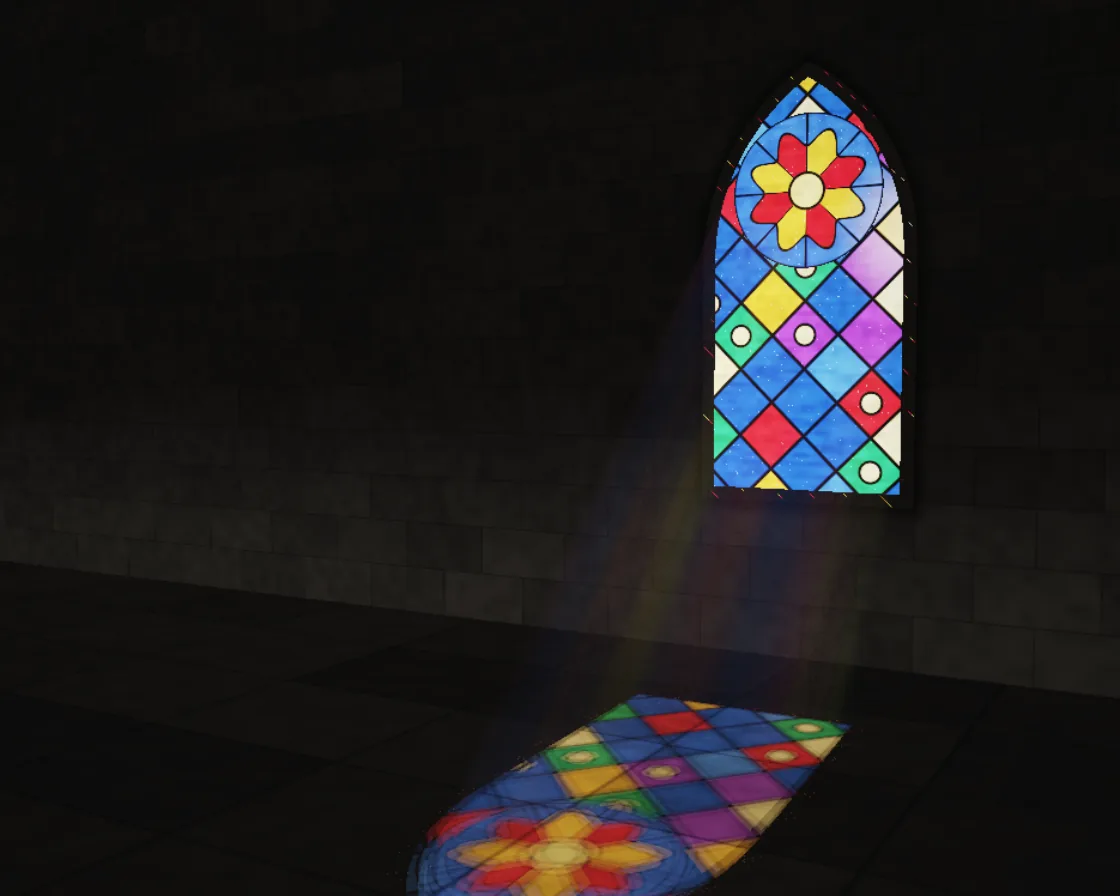
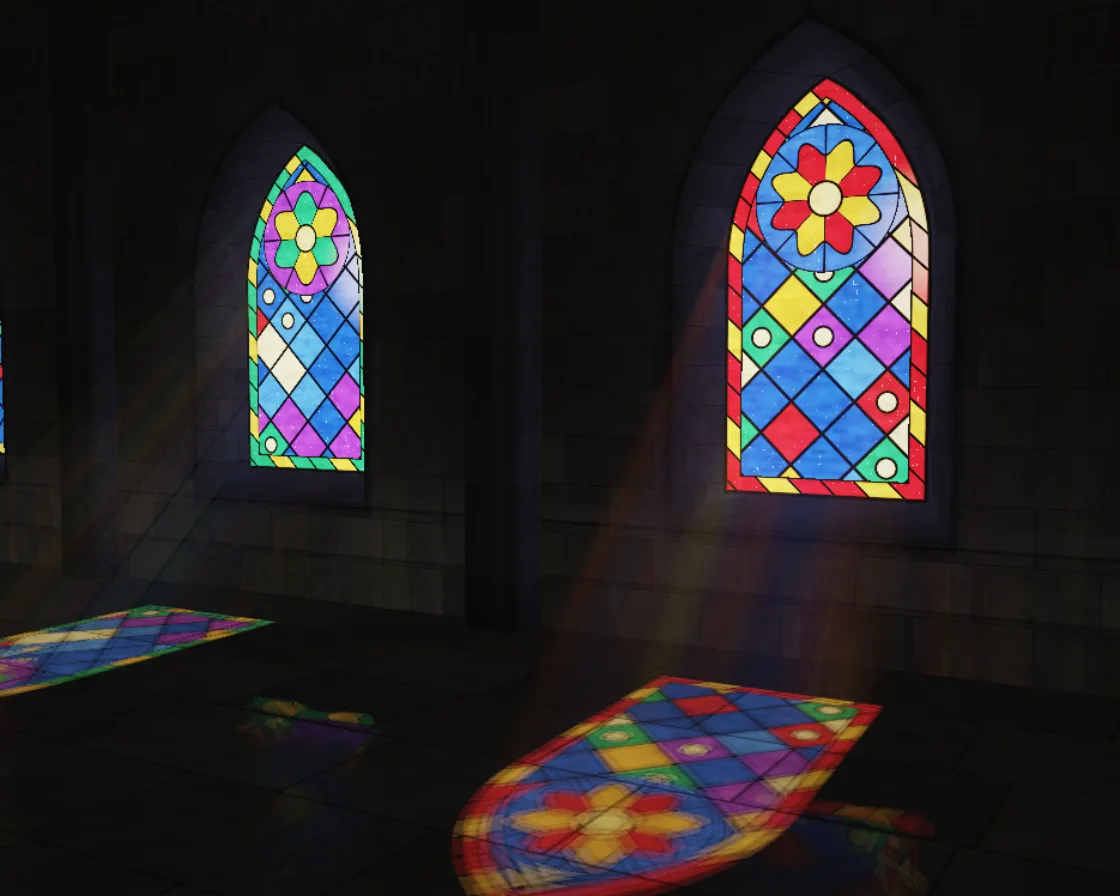
Stained glass: a nave of bays, deep reveals, richer stone and a polished floor
Windows repeat per bay (own rose and border colours) with clustered piers between; the glass sits
DEP back behind a splayed reveal (bisection finds the jamb); ashlar gets per-block tints, tooling,
stains, a string course and plinth, and a blurred bounce from the pools; flagstones come in two
widths with worn polish holding a soft 3-tap reflection of the glass. Fixed the border band's
inverted separator lead (it drew lead over the whole band, leaving coloured ticks). 60 fps at 1280x760.

diff --git a/anims/shaders/stained-glass.js b/anims/shaders/stained-glass.js
@@ -1,9 +1,12 @@
-// Stained glass: a tall pointed window in a dark stone nave. The sun stands behind it and slowly moves; its light
-// comes through the glass as coloured shafts in the dusty air and lands on the flagstones as pools of colour that
-// drift across the floor, brightening and dimming as clouds pass. Move across it to move the sun.
-// Everything is one fragment shader. The window is a function: given a point on the wall it returns the glass colour
-// there and whether lead is in the way (a ruby border, a rose medallion in the arch, diamond quarries below, each pane
-// with its own streaks and seeds). The floor asks it once per pixel: follow the sunlight back from the floor to the
+// Stained glass: a row of tall pointed windows in a dark stone nave, one to each bay, with clustered piers between
+// them. The glass sits deep in a thick wall behind a splayed stone reveal; the walls are coursed ashlar with a moulded
+// string course under the sills, a plinth, and damp stains below each window. The sun stands behind the windows and
+// slowly moves; its light comes through as coloured shafts in the dusty air and lands on the flagstones as pools of
+// colour that drift across the floor, brightening and dimming as clouds pass; the pools glow faintly back up the wall,
+// and the worn floor's polish holds a soft reflection of the glass. Move across it to move the sun.
+// Everything is one fragment shader. The window is a function: given a point on the glass it returns the glass colour
+// there and whether lead is in the way (a ruby and gold border, a rose medallion in the arch, diamond quarries below,
+// each pane with its own streaks and seeds; the bays repeat it with their own colours). The floor asks it once per pixel: follow the sunlight back from the floor to the
 // wall and look up the glass where it lands, from a few points on the sun's disc for a soft edge. The air asks it at
 // every step of a march from the eye: a step inside a beam adds that pane's colour, scaled by the dust there.
 const PARAMS = { dust: 1, sun: 1, speed: 1 };
@@ -24,41 +27,53 @@ export default function (stage) {
   #define Y0 .9
   #define YS 2.3
   #define SPAN 1.24
+  #define BAY 4.
+  #define DEP .34
+  #define SPL .2
+  #define PR .27
   float h1(vec2 p) { return fract(sin(dot(p, vec2(127.1, 311.7))) * 43758.5453); }
   float n2(vec2 p) { vec2 i = floor(p), f = fract(p); f = f * f * (3. - 2. * f); return mix(mix(h1(i), h1(i + vec2(1, 0)), f.x), mix(h1(i + vec2(0, 1)), h1(i + vec2(1, 1)), f.x), f.y); }
   float n3(vec3 p) { vec3 i = floor(p), f = fract(p); f = f * f * (3. - 2. * f); float a = h1(i.xy + i.z * 17.), b = h1(i.xy + vec2(1, 0) + i.z * 17.), c = h1(i.xy + vec2(0, 1) + i.z * 17.), d = h1(i.xy + vec2(1, 1) + i.z * 17.);
     float e = h1(i.xy + (i.z + 1.) * 17.), g = h1(i.xy + vec2(1, 0) + (i.z + 1.) * 17.), k = h1(i.xy + vec2(0, 1) + (i.z + 1.) * 17.), l = h1(i.xy + vec2(1, 1) + (i.z + 1.) * 17.);
     return mix(mix(mix(a, b, f.x), mix(c, d, f.x), f.y), mix(mix(e, g, f.x), mix(k, l, f.x), f.y), f.z); }
-  // the window's outline as a signed distance: a rectangle below the springing line, an equilateral arch above
+  // the nave repeats in bays along the wall: a point's bay, and its x within that bay. Bays -2 to 0 have windows
+  float bay(inout vec2 p) { float id = floor((p.x + BAY * .5) / BAY); p.x -= id * BAY; return id; }
+  bool hasWin(float id) { return id > -2.5 && id < .5; }
+  // a window's outline as a signed distance (bay coordinates): a rectangle below the springing line, an equilateral arch above
   float win(vec2 p) {
     if (p.y < YS) return max(abs(p.x) - HW, Y0 - p.y);
     return max(length(p - vec2(HW, YS)) - SPAN, length(p - vec2(-HW, YS)) - SPAN);
   }
+  // the opening at a wall point: distance to the outline, or a large number in a bay without a window
+  float hole(vec2 p) { float id = bay(p); return hasWin(id) ? win(p) : 9.; }
   // pot-metal colours: mostly blues, with ruby, amber, emerald, violet and a pale gold
   vec3 pal(float h) {
     return h < .34 ? vec3(.05, .16, .62) : h < .5 ? vec3(.12, .32, .85) : h < .62 ? vec3(.75, .05, .07) : h < .74 ? vec3(.95, .55, .08)
          : h < .84 ? vec3(.06, .5, .22) : h < .93 ? vec3(.38, .1, .6) : vec3(.98, .85, .45);
   }
-  // the glass at a point on the wall: rgb transmittance, and a = 1 where light gets through (0 on lead and stone)
+  // the glass at a point on the glass plane: rgb transmittance, and a = 1 where light gets through (0 on lead and stone).
+  // Each bay's window has its own quarries; the near one has an eight-petal rose in the arch, the next a six-lobed one
   vec4 glass(vec2 p) {
+    float id = bay(p);
+    if (!hasWin(id)) return vec4(0.);
     float d = win(p);
     if (d > 0.) return vec4(0.);
     float lead = 0.; vec3 c; vec2 cell;
-    vec2 med = vec2(0., YS + .36); float rm = length(p - med);
-    if (d > -.075) {                                                 // the border: ruby and gold pieces in a band
+    vec2 med = vec2(0., YS + .36); float rm = length(p - med), k = id == 0. ? 8. : 6.;
+    if (d > -.115) {                                                 // the border: ruby and gold pieces in a band
       float s = floor((p.y + atan(p.x, 2.) * 2.) / .2);
-      c = mod(s, 3.) < 1. ? vec3(.95, .6, .1) : vec3(.72, .04, .06); cell = vec2(s, 7.);
-      lead = max(smoothstep(.016, .006, abs(d + .075)), smoothstep(.012, .004, abs(fract((p.y + atan(p.x, 2.) * 2.) / .2) - .5) - .488));
+      c = mod(s, 3.) < 1. ? vec3(.95, .6, .1) : id == 0. ? vec3(.72, .04, .06) : vec3(.06, .45, .2); cell = vec2(s, 7. + id);
+      lead = max(smoothstep(.016, .006, abs(d + .115)), smoothstep(.43, .47, abs(fract((p.y + atan(p.x, 2.) * 2.) / .2) - .5)));   // lead between the pieces
     } else if (rm < .43) {                                           // the rose in the arch
-      float a = atan(p.y - med.y, p.x - med.x), sec = floor((a + 3.14159) / (6.28318 / 8.)), r = rm + .05 * cos(a * 8.);
-      if (rm < .1) { c = vec3(.98, .8, .3); cell = vec2(0, 1); }
-      else if (r < .3) { c = mod(sec, 2.) < 1. ? vec3(.72, .04, .06) : vec3(.95, .55, .08); cell = vec2(sec, 2.); }
-      else { c = vec3(.08, .2, .75); cell = vec2(sec, 3.); }
-      float fa = fract((a + 3.14159) / (6.28318 / 8.));
+      float a = atan(p.y - med.y, p.x - med.x), sec = floor((a + 3.14159) / (6.28318 / k)), r = rm + .05 * cos(a * k);
+      if (rm < .1) { c = vec3(.98, .8, .3); cell = vec2(0, 1. + id); }
+      else if (r < .3) { c = mod(sec, 2.) < 1. ? (id == 0. ? vec3(.72, .04, .06) : vec3(.06, .5, .22)) : vec3(.95, .55, .08); cell = vec2(sec, 2. + id); }
+      else { c = id == 0. ? vec3(.08, .2, .75) : vec3(.38, .1, .6); cell = vec2(sec, 3. + id); }
+      float fa = fract((a + 3.14159) / (6.28318 / k));
       lead = max(max(smoothstep(.014, .004, abs(rm - .1)), smoothstep(.014, .004, abs(r - .3))), max(smoothstep(.014, .004, abs(rm - .43)), smoothstep(.04, .01, min(fa, 1. - fa)) * step(.1, rm)));
     } else {                                                         // diamond quarries with the odd roundel
       vec2 q = mat2(.7071, -.7071, .7071, .7071) * (p - vec2(0., Y0)) / .27;
-      cell = floor(q); vec2 f = fract(q);
+      cell = floor(q) + id * 31.; vec2 f = fract(q);
       float h = h1(cell);
       c = pal(h);
       lead = smoothstep(.06, .02, min(min(f.x, 1. - f.x), min(f.y, 1. - f.y)));
@@ -69,47 +84,106 @@ export default function (stage) {
     float streak = n2(vec2(p.x * 6. + h1(cell) * 9., p.y * 40.)) * .55 + n2(p * 23.) * .45;
     float seed = smoothstep(.92, .96, n2(p * 90. + cell * 3.1));
     c *= .65 + .6 * streak; c += seed * .25;
-    lead = max(lead, smoothstep(.014, .004, -d));                    // the outer lead against the stone
+    lead = max(lead, smoothstep(.032, .018, -d));                    // the outer lead and the stone rebate it sits in
     return vec4(c, 1. - lead);
   }
   vec3 sunDir() { return normalize(vec3(-.22 + SX, -.86, 1.)); }      // the way the light travels (in through the window, down)
-  // light reaching a point in the room through the window: follow the ray back to the wall (z = 0)
+  // light reaching a point in the room through a window: follow the ray back to the glass, set DEP into the wall.
+  // The opening at the wall face is splayed wider than the glass, so it never clips the light
   vec3 through(vec3 p, vec3 L) {
     if (p.z <= 0.) return vec3(0.);
-    vec3 q = p - L * (p.z / L.z);
+    vec3 q = p - L * ((p.z + DEP) / L.z);
     vec4 g = glass(q.xy); return g.rgb * g.a;
+  }
+  // ashlar: courses of blocks, each its own tint, chisel-dressed, with recessed mortar and stains under the sills
+  vec3 ashlar(vec2 p, out float joint) {
+    vec2 b = p * vec2(1.6, 3.2); b.x += floor(b.y) * .5; vec2 f = fract(b), id = floor(b);
+    float e = min(min(f.x, 1. - f.x) / 1.6, min(f.y, 1. - f.y) / 3.2);
+    joint = .45 + .55 * smoothstep(.0, .022, e * 3.) + .12 * smoothstep(.02, .0, abs(f.y - .97));   // a lit lip under each course
+    vec3 tint = mix(vec3(.36, .32, .27), vec3(.42, .37, .3), h1(id * 1.7)) * (.72 + .36 * h1(id * 3.7));
+    tint *= .82 + .3 * n2(p * 14.) + .08 * n2(vec2(p.x * 60., p.y * 9.));   // grain and tooling marks
+    vec2 lp = p; float bid = bay(lp);
+    tint *= 1. - .35 * n2(vec2(lp.x * 7., p.y * .5 + bid * 3.)) * smoothstep(HW + .4, 0., abs(lp.x)) * smoothstep(Y0 + .05, .2, p.y);
+    return tint;
   }
   void main() {
     vec2 uv = (gl_FragCoord.xy - .5 * RES) / RES.y;
     vec3 rd = normalize(FWD * 1.32 + RGT * uv.x + UPV * uv.y), ro = EYE;
     vec3 L = sunDir(), sunC = vec3(1., .9, .72) * SUN * (.55 + .45 * CLOUD);
-    // what the eye hits: the floor (y = 0) or the wall (z = 0)
-    float tf = rd.y < 0. ? -ro.y / rd.y : 1e9, tw = rd.z < 0. ? -ro.z / rd.z : 1e9, t = min(tf, tw);
+    float glow = 2.4 * SUN * (.55 + .45 * CLOUD);
+    vec3 avgGlass = vec3(.22, .24, .55);                             // the windows' mean colour, for light they throw about
+    // what the eye hits: the floor (y = 0), the wall face (z = 0), or a pier between bays (a half-round shaft)
+    float tf = rd.y < 0. ? -ro.y / rd.y : 1e9, tw = rd.z < 0. ? -ro.z / rd.z : 1e9, tp = 1e9; float pcx = 0.;
+    for (int k = 0; k < 3; k++) {
+      float cx = BAY * .5 - float(k) * BAY; vec2 oc = ro.xz - vec2(cx, 0.);
+      float A = dot(rd.xz, rd.xz), B = dot(oc, rd.xz), C = dot(oc, oc) - PR * PR, D = B * B - A * C;
+      if (D > 0.) { float th = (-B - sqrt(D)) / A; vec3 hp = ro + rd * th; if (th > 0. && th < tp && hp.z > 0. && hp.y > 0.) { tp = th; pcx = cx; } }
+    }
+    float t = min(min(tf, tw), tp);
     vec3 p = ro + rd * t, col;
-    if (tw < tf) {
-      vec4 g = glass(p.xy);
-      if (g.a > 0. || win(p.xy) < 0.) {                              // the window itself, lit from behind
-        float glow = 2.4 * SUN * (.55 + .45 * CLOUD);
-        col = pow(g.rgb, vec3(1.35)) * g.a * glow + (1. - g.a) * vec3(.008, .007, .006);   // deep, saturated pot-metal
-        col += vec3(1., .85, .6) * g.a * smoothstep(.5, .0, length(p.xy - vec2(SX * 2.2, 2.4))) * glow * .35;   // the sun behind the glass
-      } else {                                                       // ashlar: courses of blocks
-        vec2 b = p.xy * vec2(1.6, 3.2); b.x += floor(b.y) * .5; vec2 f = fract(b);
-        float joint = .55 + .45 * smoothstep(.0, .025, min(min(f.x, 1. - f.x) / 1.6, min(f.y, 1. - f.y) / 3.2) * 3.);
-        vec3 stone = vec3(.36, .32, .27) * (.7 + .4 * n2(floor(b) * 3.7)) * (.8 + .35 * n2(p.xy * 14.));
-        // a dim nave: only a little light, bounced up from the pool on the floor
-        col = stone * joint * (.02 + .045 * smoothstep(1.8, 0., p.y));
-        col *= 1. - .6 * smoothstep(.0, -.15, win(p.xy)) ;
-        col *= smoothstep(-.02, .1, win(p.xy)) * .8 + .2;            // the window reveal is in shadow
+    if (tp <= t) {                                                   // a pier: clustered shafts, lit by the windows beside it
+      vec3 n = normalize(vec3(p.x - pcx, 0., p.z)); float ang = atan(n.z, n.x);
+      n = normalize(n + vec3(-sin(ang), 0., cos(ang)) * .25 * sin(ang * 9.));
+      vec2 tb = vec2(ang * 2., p.y * 3.); float j; vec3 stone = vec3(.38, .34, .29) * (.8 + .3 * n2(tb * 6. + 3.)) * (.85 + .2 * h1(floor(vec2(0., p.y * 3.2))));
+      float side = clamp(dot(n, normalize(vec3(sign(-pcx) * 1., .3, -.4))), 0., 1.);   // the window's glow wraps round toward it
+      vec3 beam = through(p, L) * sunC * max(dot(n, -L), 0.) * 1.5;
+      col = stone * (.012 + avgGlass * glow * .05 * side * smoothstep(4.5, 1., p.y) + beam);
+      col *= .55 + .45 * smoothstep(.0, .5, p.y);                    // darker at its foot
+    } else if (tw < tf) {
+      vec2 lp = p.xy; float id = bay(lp), dh = hasWin(id) ? win(lp) : 9.;
+      if (dh < SPL) {                                                // inside the splayed opening: the glass, or the stone reveal
+        float tg = (-DEP - ro.z) / rd.z; vec3 q = ro + rd * tg;
+        vec2 lq = q.xy; float idq = bay(lq);
+        if (idq == id && win(lq) < 0.) {
+          vec4 g = glass(q.xy);
+          col = pow(g.rgb, vec3(1.35)) * g.a * glow + (1. - g.a) * vec3(.008, .007, .006);   // deep, saturated pot-metal
+          col += vec3(1., .85, .6) * g.a * smoothstep(.5, .0, length(lq - vec2(SX * 2.2, 2.4))) * glow * .35;   // the sun behind the glass
+        } else {
+          // the reveal: find where the ray meets the splayed jamb, between the wall face and the glass
+          float a = tw, b = tg;
+          for (int i = 0; i < 7; i++) { float m = .5 * (a + b); vec3 s = ro + rd * m; vec2 ls = s.xy; bay(ls); if (win(ls) < SPL * (1. + s.z / DEP)) a = m; else b = m; }
+          vec3 s = ro + rd * a; float depth = -s.z / DEP;
+          float jt; vec3 stone = ashlar(s.xy * 1.3 + vec2(s.z * 3., 0.), jt);
+          col = stone * jt * (.015 + avgGlass * glow * .07 * (.3 + depth));   // lit by the glass it frames, more so near it
+        }
+      } else {
+        float jt; vec3 stone = ashlar(p.xy, jt);
+        // a moulded string course under the sills and a plinth at the foot
+        float sc = smoothstep(.0, .01, p.y - (Y0 - .2)) * smoothstep(.0, .01, (Y0 - .08) - p.y);
+        float plinth = smoothstep(.36, .34, p.y);
+        stone = mix(stone, vec3(.4, .36, .31) * (.85 + .2 * n2(p.xy * vec2(3., 30.))), sc);
+        stone *= 1. - .55 * smoothstep(.02, .0, abs(p.y - (Y0 - .205))) - .4 * smoothstep(.015, .0, abs(p.y - .345));
+        stone *= 1. - .25 * plinth;
+        // light bounced up from the pools on the floor in front, falling off with height, and a halo from each window
+        vec3 bounce = vec3(0.);
+        for (int i = 0; i < 4; i++) { float fi = float(i); bounce += through(vec3(p.x - .5 + (fi - 1.5) * .45, .01, 1.5 + mod(fi, 2.) * 1.1), L); }
+        bounce *= sunC * .25;
+        col = stone * jt * (.016 + .03 * smoothstep(1.8, 0., p.y) + bounce * .14 * exp(-p.y * 1.1) * max(-L.y, 0.));
+        col += stone * avgGlass * glow * .05 * exp(-max(dh, 0.) * 5.) * step(dh, 8.);
+        col *= smoothstep(-.02, .12, dh - SPL) * .7 + .3;           // the arris of the opening in shadow
       }
-    } else {                                                         // flagstones
-      vec2 b = p.xz * vec2(.9, 1.1); vec2 f = fract(b);
-      float joint = .5 + .5 * smoothstep(.0, .02, min(min(f.x, 1. - f.x), min(f.y, 1. - f.y)));
-      vec3 stone = vec3(.42, .38, .33) * (.7 + .4 * h1(floor(b))) * (.85 + .25 * n2(p.xz * 9.));
+    } else {                                                         // flagstones: courses of two widths, worn smooth
+      vec2 fp = p.xz; float row = floor(fp.y / .78); fp.x += h1(vec2(row, 3.)) * 3.; float w = mix(.72, 1.25, h1(vec2(row, 9.)));
+      vec2 b = vec2(fp.x / w, fp.y / .78); vec2 f = fract(b), fid = floor(b);
+      float jn = min(min(f.x, 1. - f.x) * w, min(f.y, 1. - f.y) * .78);
+      float joint = .4 + .6 * smoothstep(.0, .018, jn);
+      vec3 stone = mix(vec3(.42, .38, .33), vec3(.36, .35, .33), h1(fid + 4.)) * (.72 + .36 * h1(fid)) * (.85 + .25 * n2(p.xz * 9.));
+      float wear = smoothstep(.35, .75, n2(p.xz * .6 + 2.)) * smoothstep(.0, .05, jn);   // a polished path, not in the joints
       // the pool: the window's colours, from a few points on the sun's disc for a soft edge
       vec3 pool = vec3(0.);
       for (int i = 0; i < 5; i++) { float a = float(i) * 1.2566; vec3 Lj = normalize(L + vec3(cos(a), 0., sin(a)) * .012 * (i == 0 ? 0. : 1.)); pool += through(p, Lj); }
       pool *= .2;
       col = stone * joint * (.02 + pool * sunC * 1.7 * max(-L.y, 0.));
+      // the polish: a blurred reflection of the glowing windows, strongest at grazing angles
+      vec3 refl = vec3(0.); float fr = .04 + .96 * pow(1. - max(-rd.y, 0.), 5.);
+      for (int i = 0; i < 3; i++) {
+        vec3 rr = reflect(rd, vec3(0., 1., 0.)); rr.xz += (vec2(n2(p.xz * 4. + float(i) * 5.3), n2(p.xz * 4. + 9.1 + float(i) * 2.7)) - .5) * .09; rr = normalize(rr);
+        if (rr.z >= 0.) continue;
+        vec3 w0 = p + rr * (-p.z / rr.z), wg = p + rr * ((-DEP - p.z) / rr.z);
+        vec2 l0 = w0.xy; bay(l0);
+        if (win(l0) < SPL) { vec4 g = glass(wg.xy); refl += pow(g.rgb, vec3(1.35)) * g.a; }
+      }
+      col += refl / 3. * glow * fr * (.03 + .22 * wear) * joint;
     }
     // the air: march from the eye to the surface; dust in a beam scatters that pane's colour toward us
     vec3 fog = vec3(0.); float steps = 56., dt = min(t, 14.) / steps, j = h1(gl_FragCoord.xy + fract(T) * 13.);

diff --git a/anims/registry-more.js b/anims/registry-more.js
@@ -496,7 +496,7 @@ export const MORE = [
     params: { speed: P(0.25, 2, 0.05, 'Speed'), population: P(0.5, 2, 0.1, 'Population'), glow: P(0, 2, 0.1, 'Glow') } },
   { id: 'stained-glass', cat: 'shaders', title: 'Stained glass', kind: 'webgl', posterAt: 12000, pointer: true,
     trick: 'Trace light back to a glass function: coloured pools and dusty shafts',
-    notes: ['Sun pours through a leaded window into a dark nave: coloured shafts in the dusty air and pools on the flagstones that drift as it moves.', 'The window is a function that returns glass colour or lead; the floor and every step of a march through the air look it up along the sunlight. Move across to move the sun.'],
+    notes: ['Sun pours through a row of leaded windows set deep in a stone nave: coloured shafts in the dusty air, and pools on the polished flagstones that drift as it moves.', 'The window is a function that returns glass colour or lead; the floor and every step of a march through the air look it up along the sunlight. Move across to move the sun.'],
     params: { dust: P(0, 2, 0.05, 'Dust'), sun: P(0.3, 2, 0.05, 'Sun'), speed: P(0, 3, 0.1, 'Speed') } },
   { id: 'ocean', cat: 'fluid', title: 'Open ocean', kind: 'webgl', posterAt: 11000, pointer: true,
     trick: 'FFT ocean from a JONSWAP spectrum; unresolved slopes widen the glitter',

diff --git a/anims/i18n-fr.js b/anims/i18n-fr.js
@@ -42,10 +42,10 @@ export const FR = {
  },
  "stained-glass": {
   "title": "Vitrail",
-  "trick": "Remonter la lumière jusqu’à une fonction de verre : taches colorées et rayons de poussière",
+  "trick": "Remonter la lumière jusqu’à une fonction de verre : taches colorées et rayons de poussière",
   "notes": [
-   "Le soleil traverse un vitrail au plomb dans une nef sombre : des rayons colorés dans l’air poussiéreux et des taches sur les dalles qui glissent avec lui.",
-   "Le vitrail est une fonction qui renvoie la couleur du verre ou le plomb ; le sol et chaque pas dans l’air la consultent le long de la lumière. Déplacez le pointeur pour bouger le soleil."
+   "Le soleil traverse une rangée de vitraux au plomb enchâssés dans les murs épais de la nef : des rayons colorés dans l’air poussiéreux et des taches sur les dalles polies qui glissent avec lui.",
+   "Le vitrail est une fonction qui renvoie la couleur du verre ou le plomb ; le sol et chaque pas dans l’air la consultent le long de la lumière. Déplacez le pointeur pour bouger le soleil."
   ]
  },
  "lenia": {

diff --git a/anims/i18n-es.js b/anims/i18n-es.js
@@ -44,7 +44,7 @@ export const ES = {
   "title": "Vidriera",
   "trick": "Seguir la luz hasta una función de vidrio: manchas de color y haces con polvo",
   "notes": [
-   "El sol entra por una vidriera emplomada en una nave oscura: haces de color en el aire polvoriento y manchas en las losas que se desplazan con él.",
+   "El sol entra por una hilera de vidrieras emplomadas, hundidas en los muros de piedra de la nave: haces de color en el aire polvoriento y manchas en las losas pulidas que se desplazan con él.",
    "La vidriera es una función que devuelve el color del vidrio o el plomo; el suelo y cada paso por el aire la consultan siguiendo la luz del sol. Mueve el puntero para mover el sol."
   ]
  },

diff --git a/anims/i18n-zh.js b/anims/i18n-zh.js
@@ -44,7 +44,7 @@ export const ZH = {
   "title": "彩色玻璃",
   "trick": "把光线追回到玻璃函数：彩色光斑与带尘的光柱",
   "notes": [
-   "阳光穿过铅条镶嵌的花窗照进昏暗的中殿：尘埃空气里是彩色光柱，石板地上是随太阳移动的彩色光斑。",
+   "阳光穿过嵌在厚石墙里的一排铅条花窗照进中殿：尘埃空气里是彩色光柱，磨亮的石板地上是随太阳移动的彩色光斑。",
    "花窗是一个函数，给出玻璃颜色或铅条；地面和穿过空气的每一步都沿阳光去查它。在画面上移动可以移动太阳。"
   ]
  },
